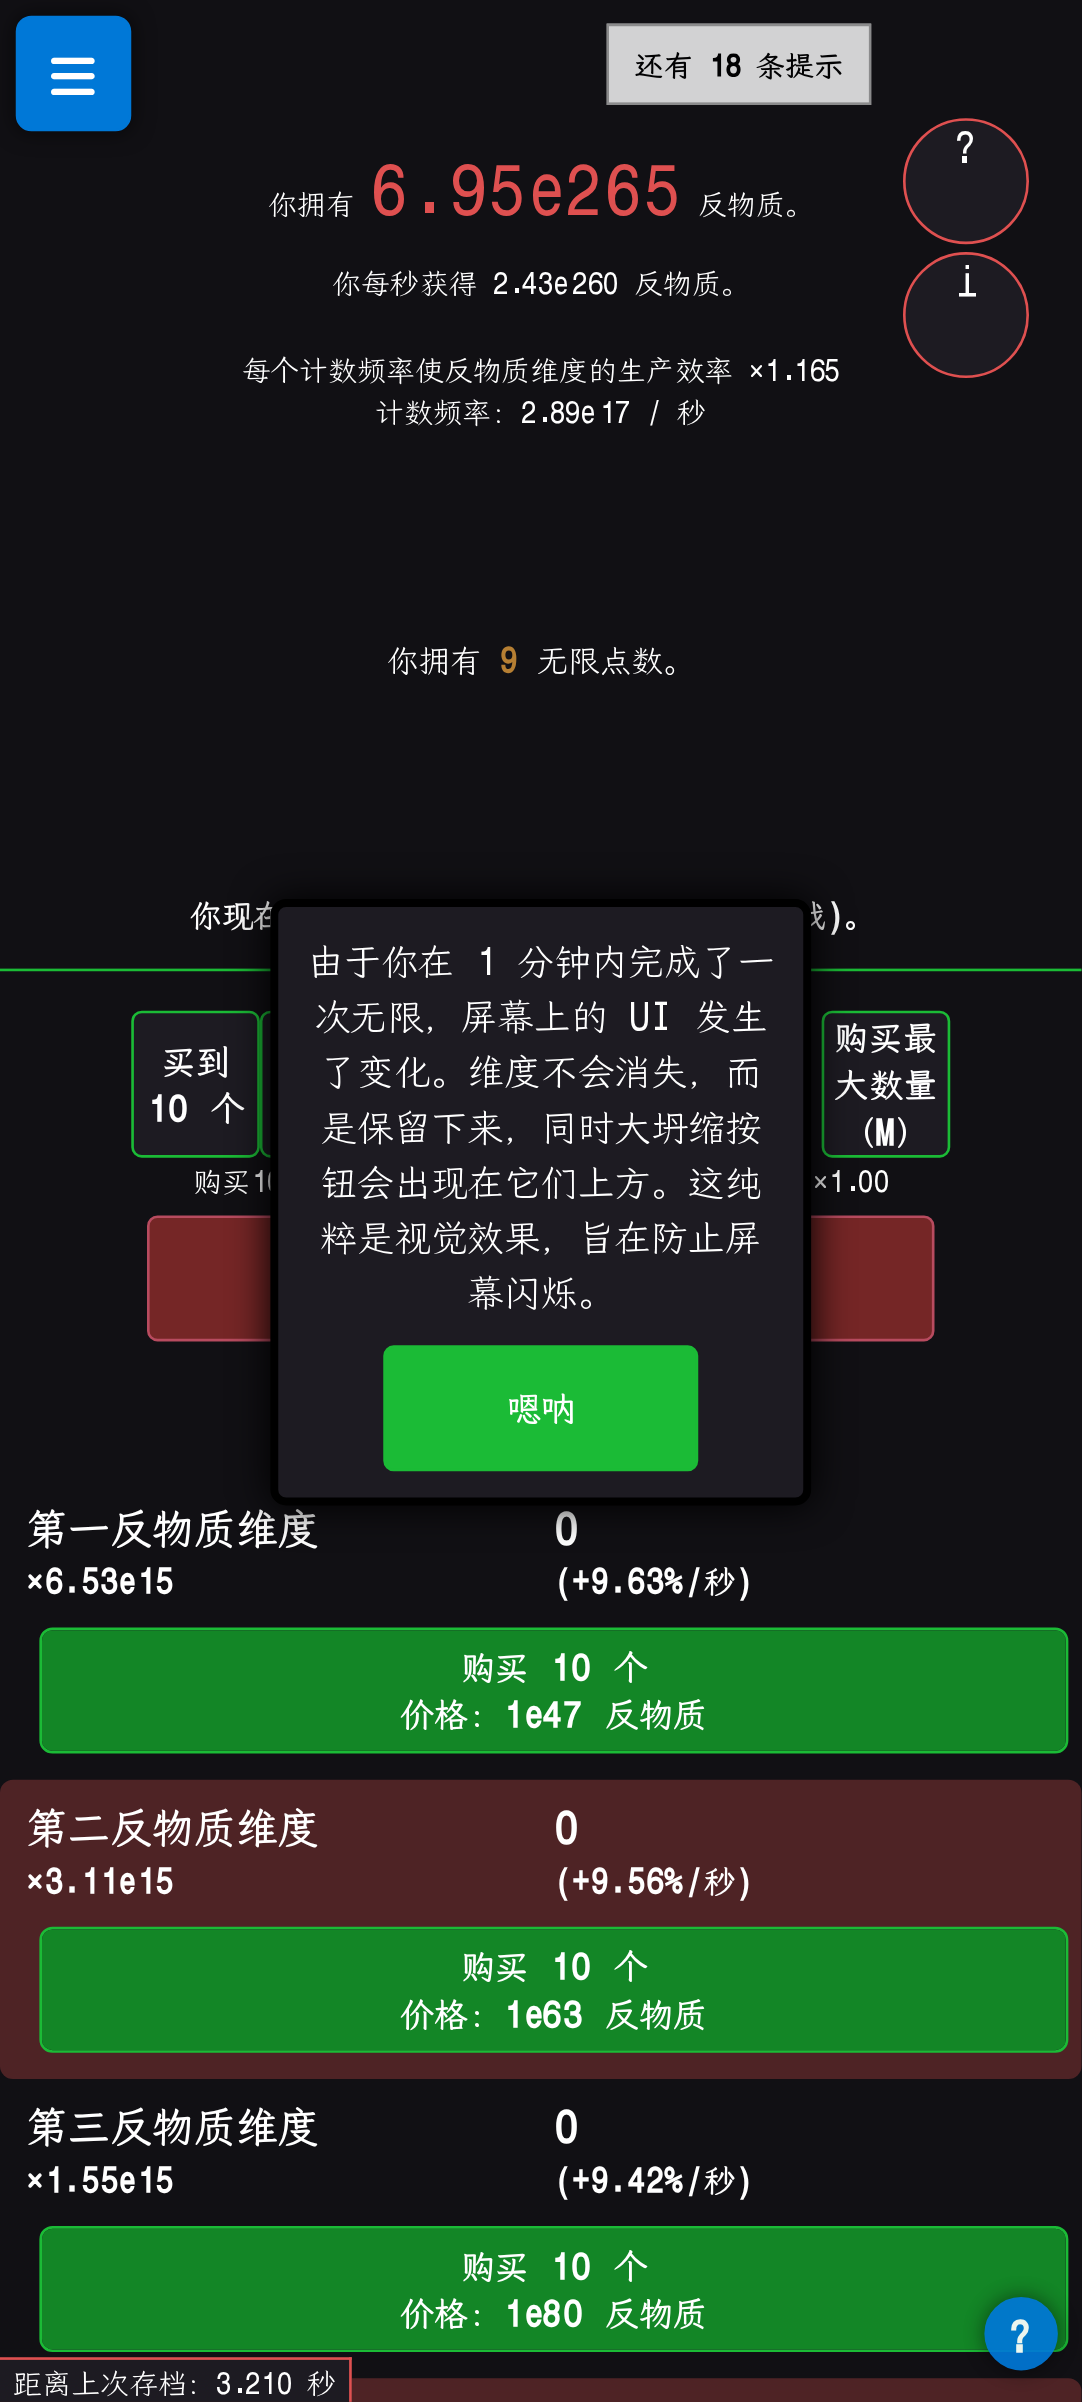
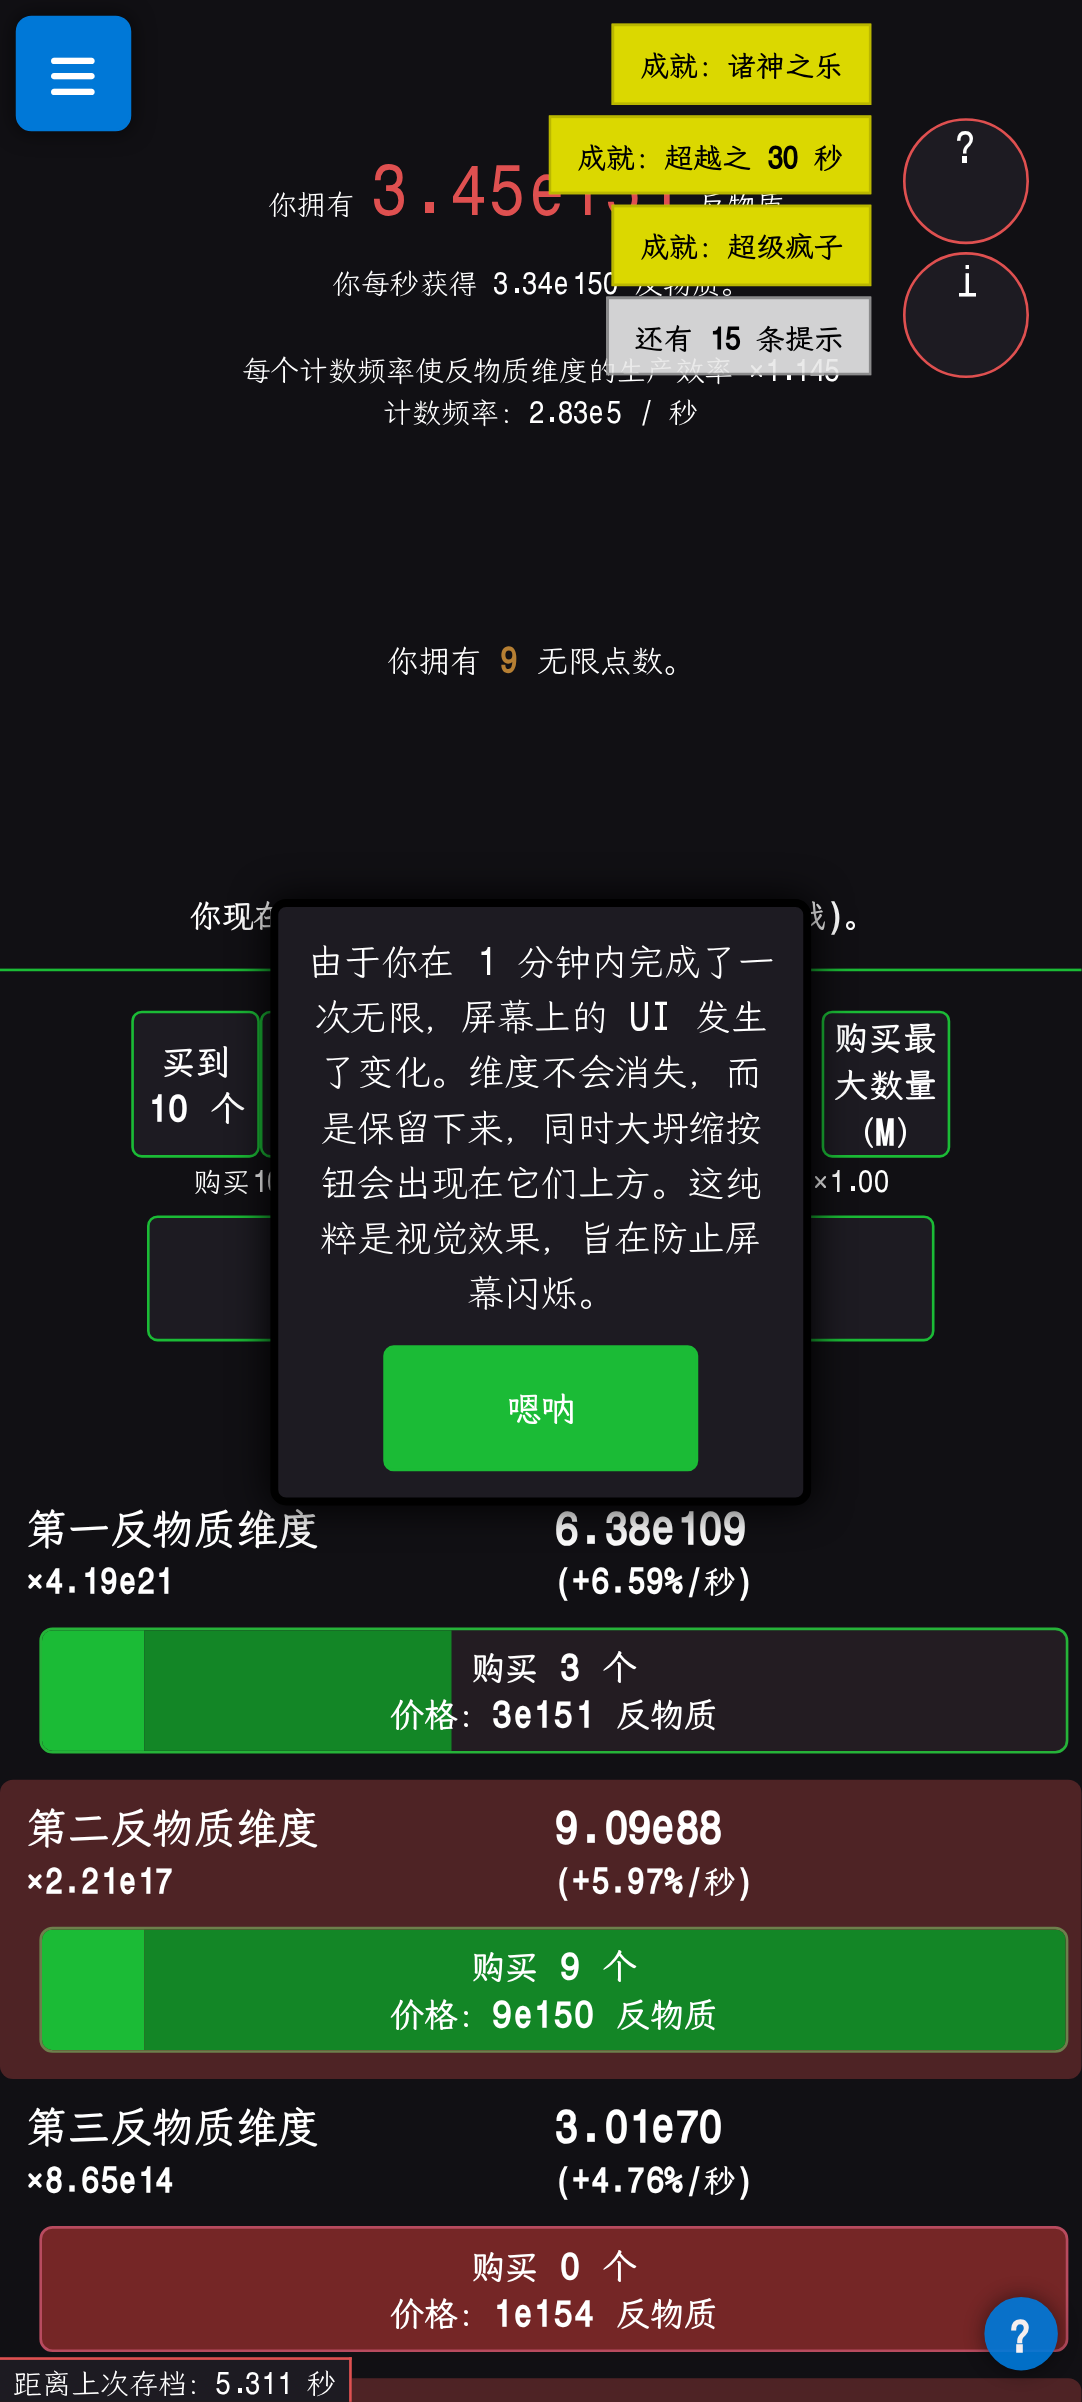
R120-01：规范脚本模块化并沿用验证基线

diff --git a/src/core/oreki-managed-autobuyer-state.js b/src/core/oreki-managed-autobuyer-state.js
@@ -39,12 +39,12 @@ export const MANAGED_KEYS = Object.freeze([
  * 当前策略的受管参数目标。
  *
  * 这些值对应原版真实配置字段，并只在对应自动器已解锁时应用。购买上限/模式不是
- * 为了让玩家"改不动"而写死：基础维度采用原版 10 次批量，计数频率采用购买最大，
+ * 为了让玩家"改不动"而写死：基础维度采用原版 10 次批量，计数频率采用单次购买，
  * 维度提升/星系取消人为限额，献祭阈值为 2×；大坍缩启停和节拍仍由当帧策略决定。
  */
 export const MANAGED_FIELDS = Object.freeze({
   dimensionMode: "BUY_10",
-  tickspeedMode: "BUY_MAX",
+  tickspeedMode: "BUY_SINGLE",
   sacrificeMultiplier: 2,
   crunchAmount: 10,
   crunchXHighest: 10,
@@ -358,7 +358,7 @@ export function applyAll({
     field(
       "tickspeed.mode",
       root.tickspeed.mode,
-      modeValue(MANAGED_FIELDS.tickspeedMode, 100),
+      modeValue(MANAGED_FIELDS.tickspeedMode, 1),
       value => { root.tickspeed.mode = value; },
     );
   }

diff --git a/AGENTS.md b/AGENTS.md
@@ -35,7 +35,14 @@
 - `oreki.net` 的部署副本在 `OrekiDawson.github.io`；只从已验证 Web 源码/提交同步，正式 Pages 部署遵守 CI/CD、受保护环境、验收及回滚门禁，不直接拼改部署副本。
 - 规则与事实：[docs/DELIVERY_RULES.md](docs/DELIVERY_RULES.md)、[docs/FACTS.md](docs/FACTS.md)、[docs/GIT_MAIN_CICD_SYNC.md](docs/GIT_MAIN_CICD_SYNC.md)。
 
-## 5. 工作方式与文档卫生
+## 5. 脚本与模块化
+
+- 修改脚本先复用已有函数、模块、工具和公共入口；多处稳定逻辑抽取为公共组件，不为假想需求预建抽象，也不以复用为由破坏 Android/Web 源码边界。
+- 每个脚本或模块保持单一主要职责；构建、测试、发布和业务逻辑通过清晰接口协作，不新增竞争构建入口、循环依赖或隐式共享状态。
+- 不设机械行数上限，小型单责脚本可独立。向大脚本增加职责前评估拆分；只对本次改动范围消除重复或过宽职责，不开展无关全量重构。
+- 后续脚本改动必须检查复用、职责边界和复杂度，并按最小必要验证确认模块拆分未破坏既有行为。
+
+## 6. 工作方式与文档卫生
 
 - 尽量复用已有任务、索引、证据与历史失败记录；不要无意义全量反编译、跨仓同步、重复大上下文调用、重复构建或等待轮询。并行 Agent 严格隔离文件与独占资源，使用实际可用的交接机制，不假设后台自动运行。
 - 中文为默认文档、PR/Issue 正文及有意义代码注释语言；标识符、API、协议、路径、原文错误消息保留准确拼写。只解释必要的意图/边界，不为中文化重写第三方或生成代码。

diff --git a/reports/R120-01/scheduler-managed-authority.md b/reports/R120-01/scheduler-managed-authority.md
@@ -30,7 +30,7 @@
 ## 受管字段范围
 
 - 反物质维度 1～8：`isActive`、`mode=BUY_10`
-- 计数频率：`isActive`、`mode=BUY_MAX`
+- 计数频率：`isActive`、`mode=BUY_SINGLE`（保持已验证基线）
 - 维度提升：`isActive`、`limitDimBoosts=false`、`limitUntilGalaxies=false`
 - 反物质星系：`isActive`、`limitGalaxies=false`
 - 献祭：`isActive`、`multiplier=2`
